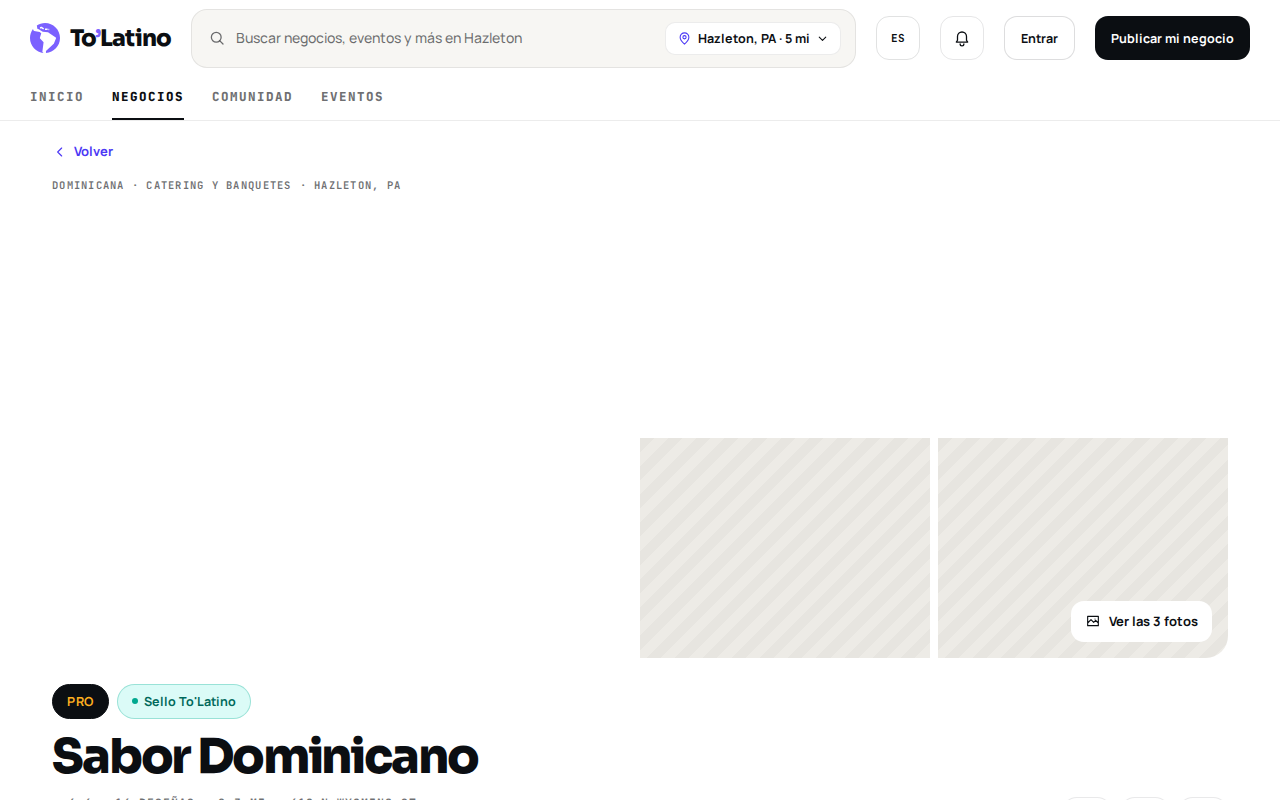
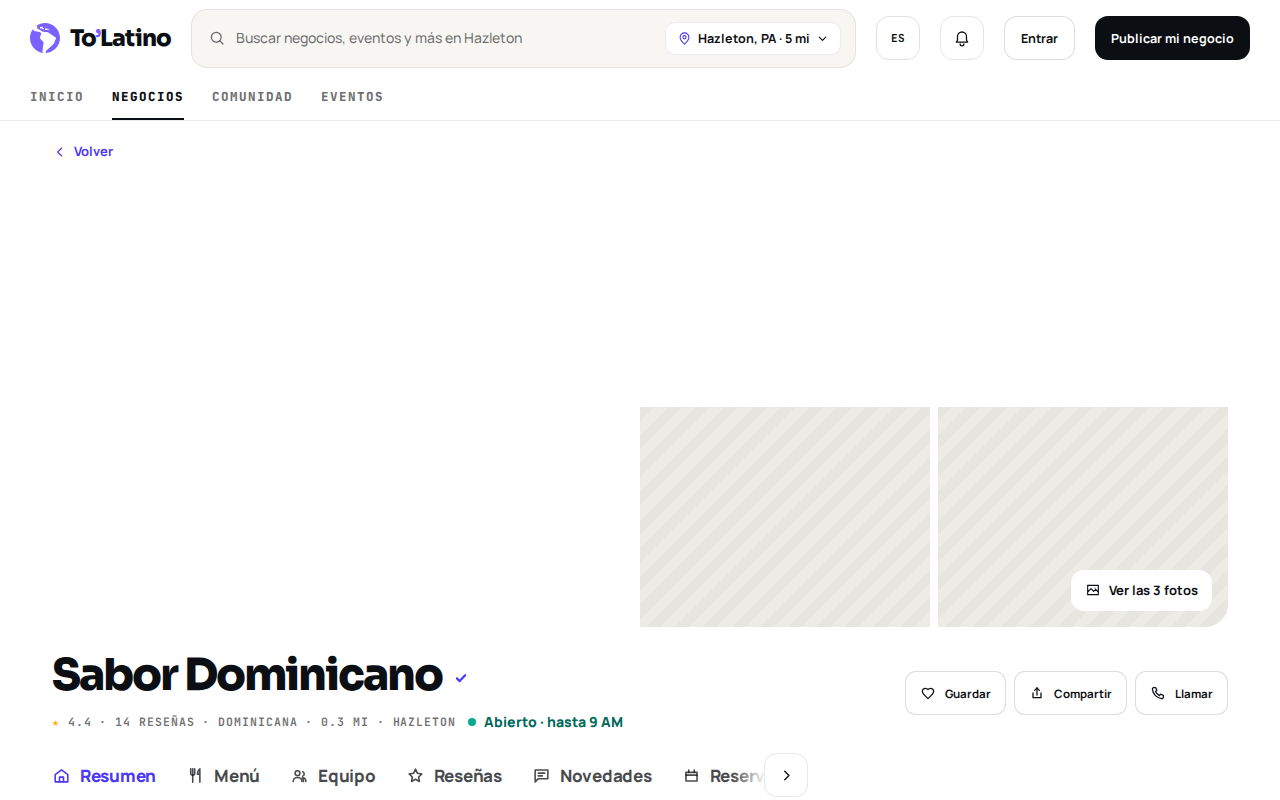
Capturas aprobadas de la ficha con la cabecera nueva (9 dispositivos)
Claude-Session: https://claude.ai/code/session_01CAVQod1VDR7sfuuZvknrwy

diff --git a/docs/REVISION.md b/docs/REVISION.md
@@ -6402,3 +6402,8 @@ Lo escribió Opus; la migración la revisó Fable (pidió un candado y una regla
 - **Seguridad, sin nada que mirar:** las direcciones de simulador de Stripe, SMS y WhatsApp solo valen en el sandbox y apuntando a la propia máquina;
   en producción se ignoran aunque alguien las ponga.
 
+## Capturas aprobadas de la ficha, renovadas (23 nov)
+- La cabecera nueva (aprobada por el fundador) cambió la ficha en los 9 dispositivos (1.7–3.6 % distinta, solo la franja de la cabecera y las pestañas).
+  Las 9 capturas de `pruebas/visual/ficha/` se renovaron desde la corrida 45163327041 (`aprobar=si`), vistas una a una en teléfono y escritorio. Las demás
+  pantallas no se tocaron.
+
